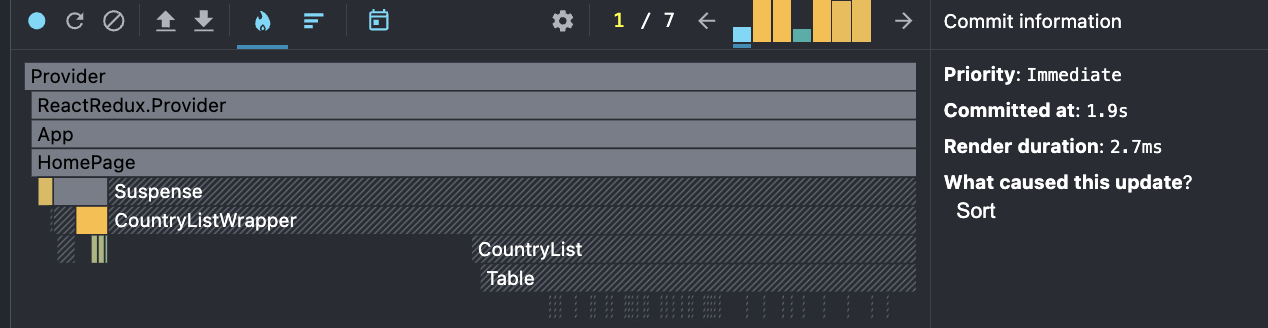
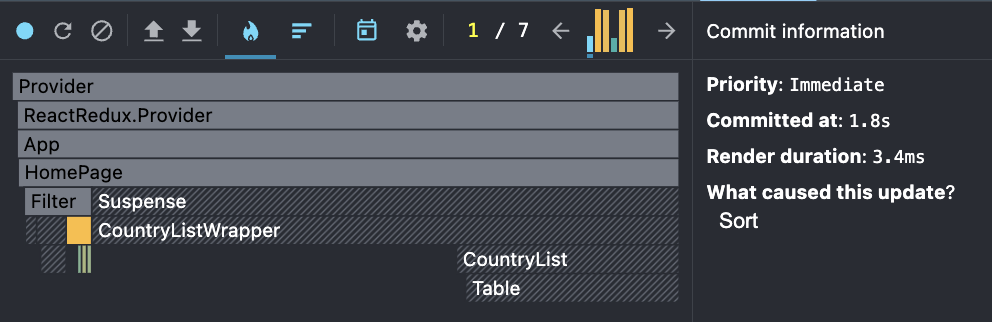
refactor: refactor code as per cross-check

Changed region(s): [[0.0, 0.0, 0.9688, 0.9627]]

diff --git a/src/components/select/Select.tsx b/src/components/select/Select.tsx
@@ -1,5 +1,5 @@
 import styles from './Select.module.scss';
-import React, { FC, memo, useCallback } from 'react';
+import React, { FC, useCallback } from 'react';
 
 interface Props {
   setSelectedValue: (value: string | null) => void;
@@ -7,27 +7,29 @@ interface Props {
   defaultValue?: string | number | null;
 }
 
-export const Select: FC<Props> = memo(
-  ({ setSelectedValue, options, defaultValue }) => {
-    const onSelect = useCallback(
-      (event: React.ChangeEvent<HTMLSelectElement>) => {
-        const value = event.target.value;
+export const Select: FC<Props> = ({
+  setSelectedValue,
+  options,
+  defaultValue,
+}) => {
+  const onSelect = useCallback(
+    (event: React.ChangeEvent<HTMLSelectElement>) => {
+      const value = event.target.value;
 
-        setSelectedValue(value || null);
-      },
-      [setSelectedValue]
-    );
+      setSelectedValue(value || null);
+    },
+    [setSelectedValue]
+  );
 
-    return (
-      <select defaultValue="" onChange={onSelect} className={styles.select}>
-        {defaultValue && <option value="">{defaultValue}</option>}
+  return (
+    <select defaultValue="" onChange={onSelect} className={styles.select}>
+      {defaultValue && <option value="">{defaultValue}</option>}
 
-        {options.map(option => (
-          <option key={option} value={option} className={styles.option}>
-            {option}
-          </option>
-        ))}
-      </select>
-    );
-  }
-);
+      {options.map(option => (
+        <option key={option} value={option} className={styles.option}>
+          {option}
+        </option>
+      ))}
+    </select>
+  );
+};

diff --git a/src/components/react-portal/ReactPortal.tsx b/src/components/react-portal/ReactPortal.tsx
@@ -1,7 +1,7 @@
 import { WRAPPER_ROOT_PORTAL_ID } from '@/sources/constants';
 import { createWrapperPortal } from '@/utils/createWrapperPortal';
 import type { FC } from 'react';
-import { useEffect, useState } from 'react';
+import { memo, useEffect, useState } from 'react';
 import { createPortal } from 'react-dom';
 
 interface Props {
@@ -9,27 +9,26 @@ interface Props {
   wrapperId?: string;
 }
 
-export const ReactPortal: FC<Props> = ({
-  children,
-  wrapperId = WRAPPER_ROOT_PORTAL_ID,
-}) => {
-  const [wrapperElement, setWrapperElement] = useState<HTMLElement | null>(
-    null
-  );
+export const ReactPortal: FC<Props> = memo(
+  ({ children, wrapperId = WRAPPER_ROOT_PORTAL_ID }) => {
+    const [wrapperElement, setWrapperElement] = useState<HTMLElement | null>(
+      null
+    );
 
-  useEffect(() => {
-    let portalElement = document.getElementById(wrapperId);
+    useEffect(() => {
+      let portalElement = document.getElementById(wrapperId);
 
-    if (!portalElement) {
-      portalElement = createWrapperPortal(wrapperId);
-    }
+      if (!portalElement) {
+        portalElement = createWrapperPortal(wrapperId);
+      }
 
-    setWrapperElement(portalElement);
-  }, [wrapperId]);
+      setWrapperElement(portalElement);
+    }, [wrapperId]);
 
-  if (!wrapperElement) return null;
+    if (!wrapperElement) return null;
 
-  return createPortal(children, wrapperElement);
-};
+    return createPortal(children, wrapperElement);
+  }
+);
 
 export default ReactPortal;

diff --git a/src/utils/filterAndSortCountries.ts b/src/utils/filterAndSortCountries.ts
@@ -23,12 +23,8 @@ export const filterAndSortCountries = (
     }
     case SortOrder.POPULATION_ASC: {
       result = [...result].sort((a, b) => {
-        const aPop = Number(a.data.at(-1)?.population ?? 0);
-        const bPop = Number(b.data.at(-1)?.population ?? 0);
-
-        if (aPop == null && bPop == null) return 0;
-        if (aPop == null) return 1;
-        if (bPop == null) return -1;
+        const aPop = Number(a.data.at(-1)?.population ?? null);
+        const bPop = Number(b.data.at(-1)?.population ?? null);
 
         return aPop - bPop;
       });
@@ -37,12 +33,8 @@ export const filterAndSortCountries = (
     }
     case SortOrder.POPULATION_DESC: {
       result = [...result].sort((a, b) => {
-        const aPop = Number(a.data.at(-1)?.population ?? 0);
-        const bPop = Number(b.data.at(-1)?.population ?? 0);
-
-        if (aPop == null && bPop == null) return 0;
-        if (aPop == null) return 1;
-        if (bPop == null) return -1;
+        const aPop = Number(a.data.at(-1)?.population ?? null);
+        const bPop = Number(b.data.at(-1)?.population ?? null);
 
         return bPop - aPop;
       });

diff --git a/src/components/table/Table.tsx b/src/components/table/Table.tsx
@@ -2,7 +2,7 @@ import { useEffect, useState, type FC } from 'react';
 import styles from './Table.module.scss';
 import { useSelector } from 'react-redux';
 import { selectSelectedYear } from '@/store/slices/year/selectors';
-import { TableRow } from './components/TableRow';
+import classNames from 'classnames';
 
 interface Props {
   headers: (string | number)[];
@@ -36,12 +36,19 @@ export const Table: FC<Props> = ({ headers, rows, highlightIndex }) => {
 
       <tbody>
         {rows.map((row, rowIndex) => (
-          <TableRow
-            key={rowIndex}
-            row={row}
-            highlightIndex={highlightIndex}
-            isHighlighted={isHighlighted}
-          />
+          <tr key={rowIndex}>
+            {row.map((cell, i) => (
+              <td
+                key={i}
+                className={classNames({
+                  [styles.highlighted]:
+                    isHighlighted && highlightIndex?.includes(i),
+                })}
+              >
+                {cell}
+              </td>
+            ))}
+          </tr>
         ))}
       </tbody>
     </table>

diff --git a/src/components/column-piker/ColumnPicker.tsx b/src/components/column-piker/ColumnPicker.tsx
@@ -3,7 +3,7 @@ import { Button } from '../button/Button';
 import styles from './ColumnPicker.module.scss';
 import { Input } from '../input/Input';
 import { columnPicker } from './columnPickerList';
-import { FC, useCallback } from 'react';
+import { FC, memo, useCallback } from 'react';
 import { SelectedColumn } from '@/sources/types';
 import { useSelector } from 'react-redux';
 import { selectColumns } from '@/store/slices/selected-column/selectors';
@@ -14,7 +14,7 @@ interface Props {
   onSelect: (selected: SelectedColumn[]) => void;
 }
 
-export const ColumnPicker: FC<Props> = ({ onSelect }) => {
+export const ColumnPicker: FC<Props> = memo(({ onSelect }) => {
   const selectedColumns = useSelector(selectColumns);
   const { selectColumn, removeColumn } = useActions();
 
@@ -63,4 +63,4 @@ export const ColumnPicker: FC<Props> = ({ onSelect }) => {
       </Button>
     </div>
   );
-};
+});

diff --git a/src/components/button/Button.tsx b/src/components/button/Button.tsx
@@ -1,24 +1,22 @@
 import classNames from 'classnames';
 import styles from './Button.module.scss';
 import { Variant } from '@/sources/enums';
+import { memo } from 'react';
 
 type Props = {
   variant?: Variant;
   children?: React.ReactNode;
 } & React.ButtonHTMLAttributes<HTMLButtonElement>;
 
-export const Button: React.FC<Props> = ({
-  variant = Variant.PRIMARY,
-  className,
-  children,
-  ...rest
-}: Props) => {
-  return (
-    <button
-      className={classNames(styles.button, styles[variant], className)}
-      {...rest}
-    >
-      {children}
-    </button>
-  );
-};
+export const Button: React.FC<Props> = memo(
+  ({ variant = Variant.PRIMARY, className, children, ...rest }: Props) => {
+    return (
+      <button
+        className={classNames(styles.button, styles[variant], className)}
+        {...rest}
+      >
+        {children}
+      </button>
+    );
+  }
+);

diff --git a/src/components/input/Input.tsx b/src/components/input/Input.tsx
@@ -1,6 +1,6 @@
 import classNames from 'classnames';
 import styles from './Input.module.scss';
-import { FC, memo } from 'react';
+import { FC, memo, useCallback } from 'react';
 import { messages } from '@/sources/messages';
 
 interface Props extends React.InputHTMLAttributes<HTMLInputElement> {
@@ -27,12 +27,15 @@ export const Input: FC<Props> = memo(
     onChange,
     ...rest
   }) => {
-    const handleInputChange = (event: React.ChangeEvent<HTMLInputElement>) => {
-      const value = event.target.value;
+    const handleInputChange = useCallback(
+      (event: React.ChangeEvent<HTMLInputElement>) => {
+        const value = event.target.value;
 
-      setInput?.(value);
-      onChange?.(event);
-    };
+        setInput?.(value);
+        onChange?.(event);
+      },
+      [setInput, onChange]
+    );
 
     return (
       <div className={styles.container}>

diff --git a/src/components/modal/Modal.tsx b/src/components/modal/Modal.tsx
@@ -1,5 +1,5 @@
 import type { FC, ReactNode } from 'react';
-import { useLayoutEffect } from 'react';
+import { memo, useLayoutEffect } from 'react';
 import styles from './Modal.module.scss';
 import { messages } from '@/sources/messages';
 import ReactPortal from '../react-portal/ReactPortal';
@@ -13,7 +13,7 @@ interface Props {
   children?: ReactNode;
 }
 
-export const Modal: FC<Props> = ({ isOpen, onClose, children }) => {
+export const Modal: FC<Props> = memo(({ isOpen, onClose, children }) => {
   useEscapeKey(() => onClose?.(), isOpen);
 
   useLayoutEffect(() => {
@@ -45,4 +45,4 @@ export const Modal: FC<Props> = ({ isOpen, onClose, children }) => {
       </div>
     </ReactPortal>
   );
-};
+});

diff --git a/src/pages/HomePage.tsx b/src/pages/HomePage.tsx
@@ -3,17 +3,12 @@ import styles from './HomePage.module.scss';
 import { Suspense } from 'react';
 import { CountryListWrapper } from '@/components/country-list/CountryListWrapper';
 import { messages } from '@/sources/messages';
-import { Search } from '@/components/search/Search';
 import { Filter } from '@/components/filter/Filter';
 
 export const HomePage = () => {
   return (
     <div className={styles.container}>
-      <div className={styles.titleContainer}>
-        <h1 className={styles.title}>{messages.homePage.appTitle}</h1>
-
-        <Search />
-      </div>
+      <h1 className={styles.title}>{messages.homePage.appTitle}</h1>
 
       <Filter />
 

diff --git a/src/components/filter/components/select-year/SelectYear.tsx b/src/components/filter/components/select-year/SelectYear.tsx
@@ -2,9 +2,9 @@ import { useSelector } from 'react-redux';
 import { selectYears } from '@/store/slices/year/selectors';
 import { useActions } from '@/utils/hooks/useActions';
 import { Select } from '@/components/select/Select';
-import { useCallback, useMemo } from 'react';
+import { memo, useCallback, useMemo } from 'react';
 
-export const SelectYear = () => {
+export const SelectYear = memo(() => {
   const years = useSelector(selectYears);
   const { setSelectedYear } = useActions();
 
@@ -16,4 +16,4 @@ export const SelectYear = () => {
   );
 
   return <Select options={reversedYears} setSelectedValue={handleSelect} />;
-};
+});

diff --git a/src/components/filter/Filter.tsx b/src/components/filter/Filter.tsx
@@ -1,3 +1,4 @@
+import { Search } from '../search/Search';
 import { SelectYear } from './components/select-year/SelectYear';
 import { Sort } from './components/sort/Sort';
 import styles from './Filter.module.scss';
@@ -5,6 +6,8 @@ import styles from './Filter.module.scss';
 export const Filter = () => {
   return (
     <div className={styles.container}>
+      <Search />
+
       <SelectYear />
       <Sort />
     </div>

diff --git a/src/pages/HomePage.module.scss b/src/pages/HomePage.module.scss
@@ -6,15 +6,6 @@
   padding: 20px 0;
 }
 
-.titleContainer {
-  display: flex;
-  width: 100%;
-  justify-content: space-between;
-  align-items: center;
-  gap: 10px;
-  padding: 10px;
-}
-
 .title {
   font-size: 16px;
 }
